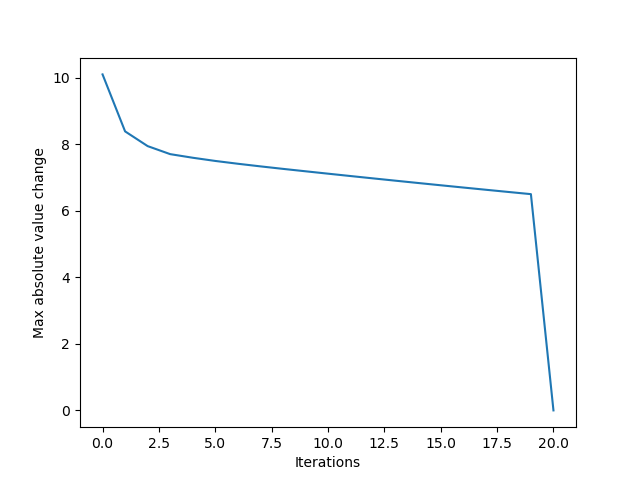
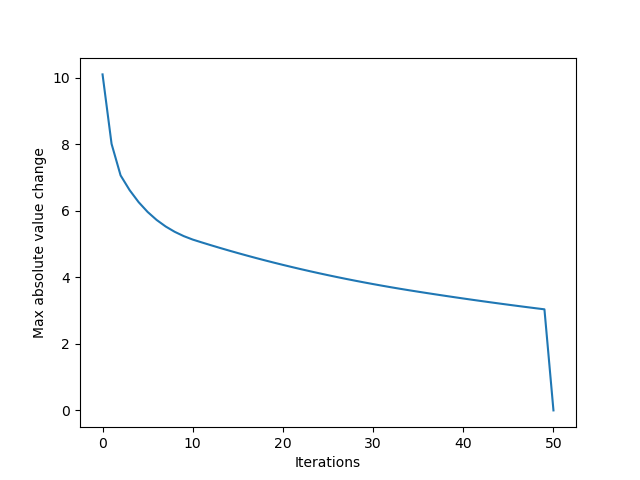
no accidents when initializing

diff --git a/rlagent.py b/rlagent.py
@@ -65,6 +65,8 @@ class SarsaAgent:
         self.alpha = alpha
         self.env_ = None
         self.Qsa = None
+        self.transition_freq = None
+        self.exist_freq = None
         if epsilon is None:
             epsilon = 0.0
         self.epsilon = epsilon
@@ -73,6 +75,8 @@ class SarsaAgent:
         self.alpha_shrink = alpha_shrink
         self._abs_update_mean = []
         self._episode_time = []
+        self._policy_diff = []
+        self._rewards = []
         self._creation_time = time.time()
         if max_episode_len is None:
             max_episode_len = float('inf')
@@ -125,8 +129,10 @@ class SarsaAgent:
         done = False
         old_Qtable = self.Qsa.copy()
         steps = 0
+        episode_rewards = 0.
         while not done and steps <= self.max_episode_len:
             state_p, reward, done, _ = self.env_.step(action)
+            episode_rewards += reward
             action_p = self.move(state_p)
 
             self.Qsa[state, action] = self._Q_update_func(state, action, reward, state_p, done, action_p)
@@ -139,6 +145,8 @@ class SarsaAgent:
         episode_abs_mean = np.abs(old_Qtable - self.Qsa).max()
         self._abs_update_mean.append(episode_abs_mean)
         self._episode_time.append(time.time() - self._creation_time)
+        self._policy_diff.append((old_Qtable.argmax(axis=1) != self.Qsa.argmax(axis=1)).sum())
+        self._rewards.append(episode_rewards)
 
     def set_seed(self):
         """Set seed for numpy and environment."""
@@ -196,6 +204,55 @@ class SarsaAgent:
         return [self.policy(state) for state in range(self.env_.nS)]
 
 
+class ExpectedSarsa(SarsaAgent):
+    def _init_Q(self, env):
+        """Initiate Q value table."""
+        if self.Qsa is None:
+            self.Qsa = Qsa = np.zeros((env.nS, env.nA))
+        if self.transition_freq is None:
+            self.transition_freq = np.ones((env.nA, env.nS, env.nS), dtype=int)
+
+    def _fit_episode(self):
+        """Update values for one iteration.
+
+        An iteration is defined by a sequence of steps from starting point to a
+        terminal state.
+        """
+        state = self.env_.reset()
+        action = self.move(state)
+        done = False
+        old_Qtable = self.Qsa.copy()
+        steps = 0
+        episode_rewards = 0.
+        while not done and steps <= self.max_episode_len:
+            state_p, reward, done, _ = self.env_.step(action)
+            self.transition_freq[action, state, state_p] += 1
+            episode_rewards += reward
+            action_p = self.move(state_p)
+
+            self.Qsa[state, action] = self._Q_update_func(state, action, reward, state_p, done, action_p)
+
+            state = state_p
+            action = action_p
+            steps += 1
+        self.epsilon *= self.epsilon_shrink
+        self.alpha *= self.alpha_shrink
+        episode_abs_mean = np.abs(old_Qtable - self.Qsa).max()
+        self._abs_update_mean.append(episode_abs_mean)
+        self._episode_time.append(time.time() - self._creation_time)
+        self._policy_diff.append((old_Qtable.argmax(axis=1) != self.Qsa.argmax(axis=1)).sum())
+        self._rewards.append(episode_rewards)
+
+    def _Q_update_func(self, state, action, reward, state_p, done, action_p=None):
+        """Calculate new Q function value for state-action pair."""
+        Q_p = (self.Qsa.max(axis=1) * self.transition_freq[action, state]).sum() / self.transition_freq[action, state].sum() if not done else 0.0
+        return self.Q(state, action) \
+               + self.alpha * (reward
+                               + self.gamma * Q_p
+                               - self.Q(state, action)
+                               )
+
+
 class QLAgent(SarsaAgent):
     """QLAgent is an off-policy TD control algorithm implementation, also known
     as Q-Learning (Watkins, 1989)
@@ -229,7 +286,7 @@ class QLAgent(SarsaAgent):
     """
     def _Q_update_func(self, state, action, reward, state_p, done, action_p=None):
         """Calculate new Q value for state-action pair."""
-        Q_p = self.Qsa[state_p].max()# if not done else 0.0
+        Q_p = self.Qsa[state_p].max() if not done else 0.0
         return self.Q(state, action) \
             + self.alpha * (reward
                             + self.gamma * Q_p
@@ -246,12 +303,14 @@ class QLAgent(SarsaAgent):
         if env is None:
             env = self.env_
 
+        episode_rewards = 0.
         state = env.reset()
         old_Qtable = self.Qsa.copy()
         steps = 0
         while not done and steps <= self.max_episode_len:
             action = self.move(state)
             state_p, reward, done, _ = env.step(action)
+            episode_rewards += reward
             self.Qsa[state, action] = self._Q_update_func(state, action, reward, state_p, done)
             state = state_p
             steps += 1
@@ -260,6 +319,11 @@ class QLAgent(SarsaAgent):
         episode_abs_mean = np.abs(old_Qtable - self.Qsa).mean()
         self._abs_update_mean.append(episode_abs_mean)
         self._episode_time.append(time.time() - self._creation_time)
+        self._policy_diff.append((old_Qtable.argmax(axis=1) != self.Qsa.argmax(axis=1)).sum())
+        self._rewards.append(episode_rewards)
+
+
+
 
 
 def shape_map(amap):

diff --git a/streetv2.py b/streetv2.py
@@ -42,19 +42,24 @@ class StreetParking(StreetModel):
         # parks, probas = np.array([[k, v['pexist']] for k, v in sorted(self.park_probas.items())]).T.tolist()
         # self.state = np.random.choice()
         # self.state = np.random.randint(0, self._num_park_states + 1)
-        self.state = self._select_random_parking_state()
+        self.state = self._select_random_parking_state(init=True)
         self._state_length = 0
         return self.state
 
-    def _select_random_parking_state(self):
+    def _select_random_parking_state(self, init=False):
+        if init:
+            random_accident_proba = 0.0
+        else:
+            random_accident_proba = self.random_accident_proba
         one_row = []
         for park_type, probas in self.park_probas.items():
             pexist, poccupied = probas['pexist'], probas['poccupied']
             # one_row += list(probas)
             one_row += [
-                (1. - self.random_accident_proba) * pexist * poccupied,
-                (1. - self.random_accident_proba) * pexist * (1. - poccupied),
+                (1. - random_accident_proba) * pexist * poccupied,
+                (1. - random_accident_proba) * pexist * (1. - poccupied),
                 ]
+
         return np.random.choice(np.arange(self._num_park_states), p=one_row)
 
     def _move_step(self):

diff --git a/example_usage.py b/example_usage.py
@@ -3,7 +3,7 @@ from rlagent import QLAgent
 import matplotlib.pyplot as plt
 import numpy as np
 
-street_length = 20
+street_length = 50
 park_probas = {
      0: {
         'pexist': 0.25,
@@ -43,7 +43,7 @@ park_costs = {
     5: 3.,
     6: 2.,
     }
-walk_cost = 0.8
+walk_cost = 0.1
 drive_cost = 0.1
 katoto_cost = 10.0
 random_accident_proba = 0.0
